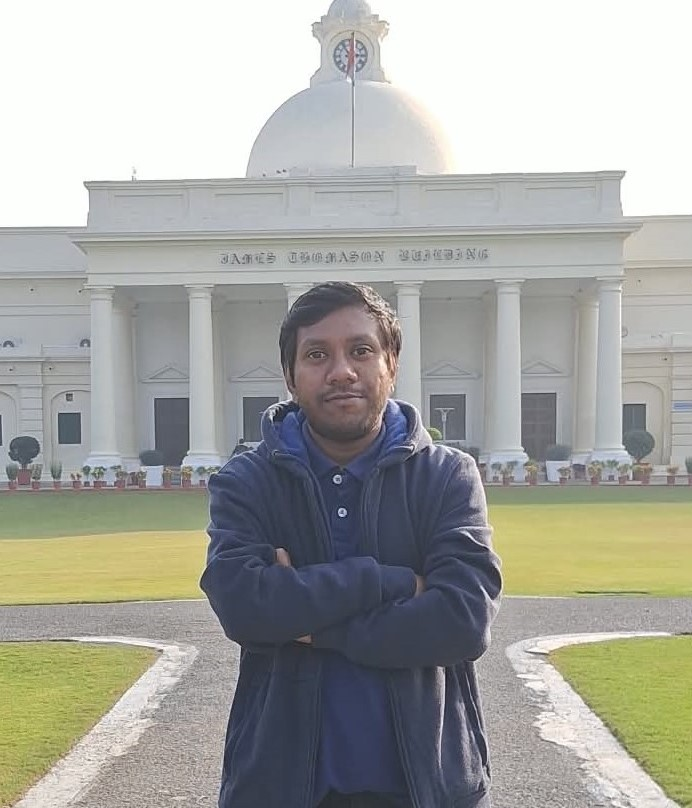
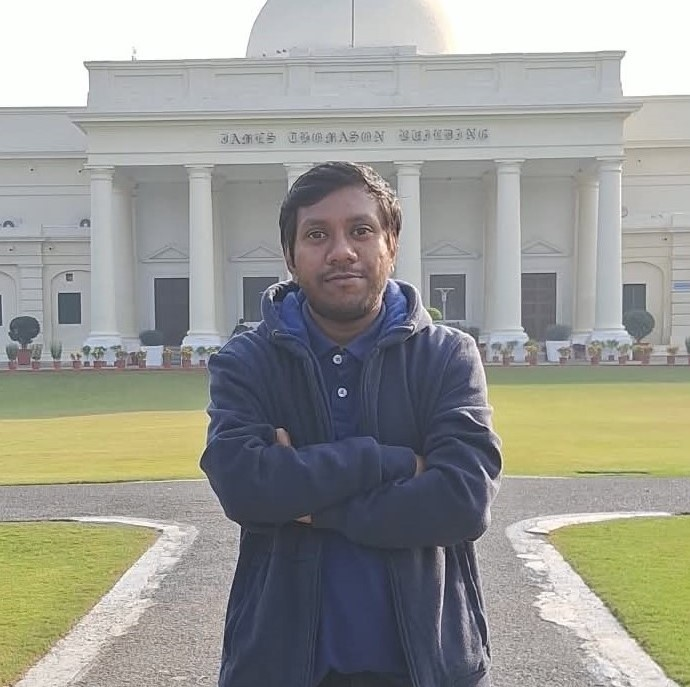
feat: add about page and profile picture

diff --git a/_pages/about.md b/_pages/about.md
@@ -30,3 +30,5 @@ I completed my M.Tech in Artificial Intelligence from Indian Institute of Techno
 Following my M.Tech, I worked as a Research Fellow at IIT Roorkee, contributing to research on Pedestrian Safety using Machine Learning and Computer Vision.
 
 My research interests lie in applied Deep Learning and Computer Vision, particularly for Advanced Driver Assistance Systems (ADAS), autonomous driving, and the perception and safety of Vulnerable Road Users (VRUs) in challenging real-world scenarios.
+
+I am also interested in Reinforcement Learning, Unsupervised Learning, Generative AI, LLMs, Transformers and their applications in real-world problems.
